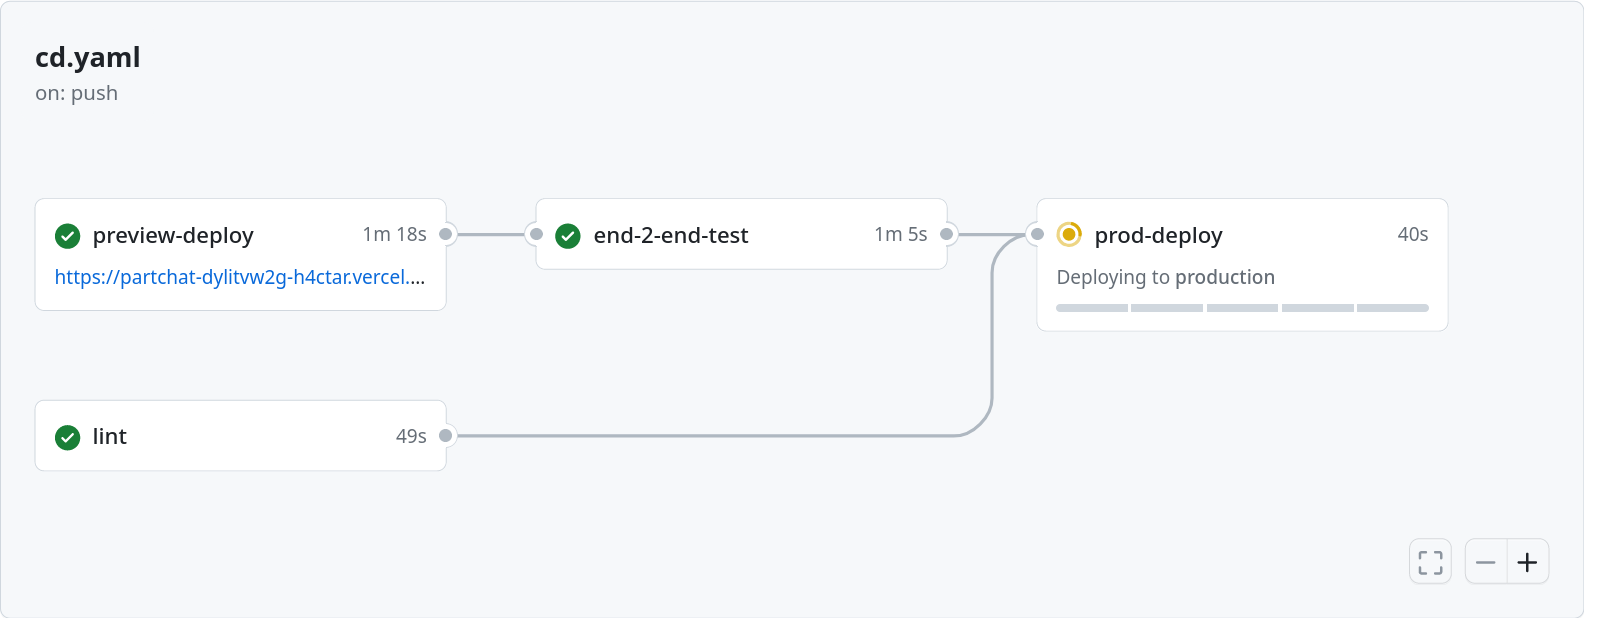
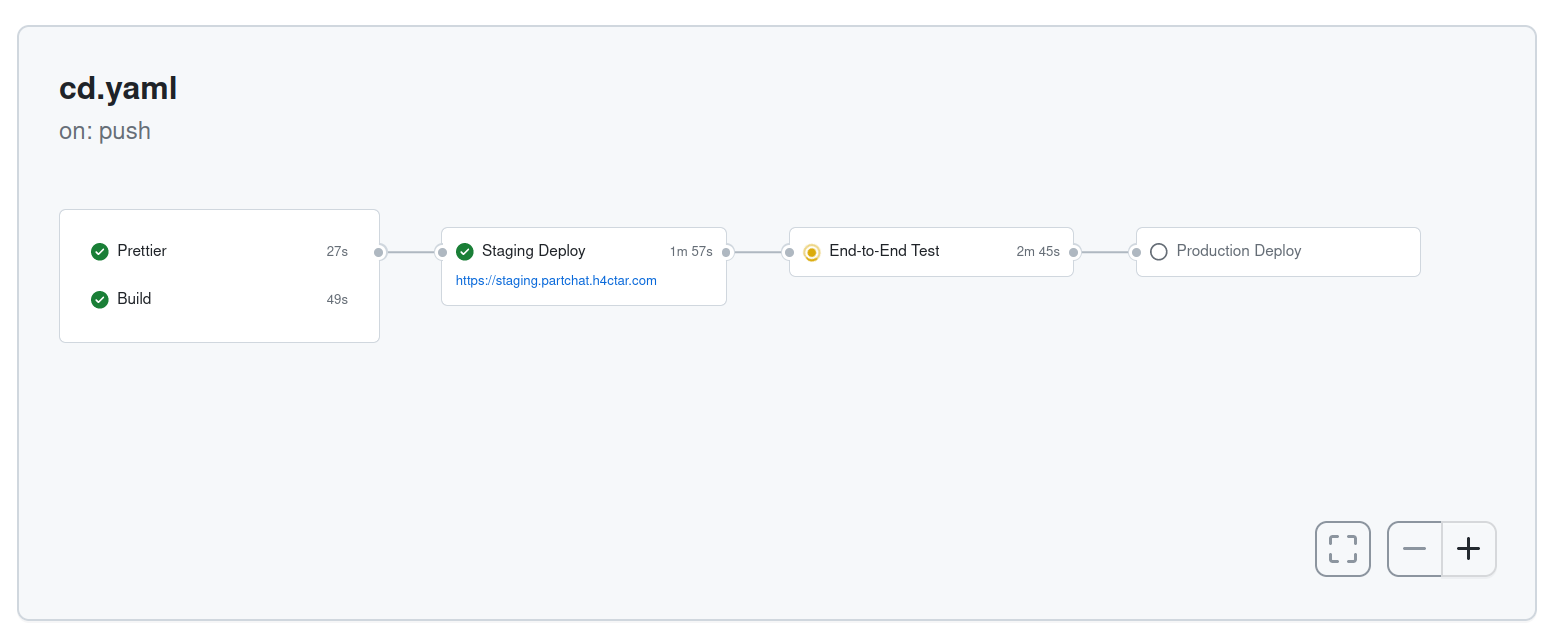
update readme

diff --git a/README.md b/README.md
@@ -5,12 +5,10 @@
 ## Pipelines
 
 There is one continuous deployment GitHub workflow.
-It runs on all pushes to the main branch, deploys to a preview environment where it runs the end-2-end tests and if they pass it deploys to prod.
+It runs on all pushes, deploys to a staging environment where it runs the end-2-end tests and if they pass it deploys to prod (only if main branch).
 
 The setup-node action is used to cache node dependencies.
 A cache is also created for the playwright binaries; it uses the playwright version in the key to ensure it is updated when the playwright version changes.
-
-The deployment URL is stored in the `url` output of the `preview-deploy` job and retrieved in the `end-2-end-test` job.
 
 ![Continuous Deploy Workflow](docs/continuous-deploy-workflow.png)
 
@@ -20,11 +18,9 @@ End-2-end tests use Playwright and should test all nominal flows.
 
 ## Database
 
-The data is persisted in a PlanetScale SQL database using the Prisma ORM.
+The data is persisted in a SQLite database using the Prisma ORM.
 
 ![Entity Relationship Diagram](docs/prisma-erd.svg)
-
-There are two branches of the database, one for production and one for preview.
 
 ## REST Resources
 
@@ -36,10 +32,6 @@ The REST API has these resources:
 -   Part
 -   Comment
 
-## API Deployment
-
-## API Cache Control
-
 ## Authentication/Authorisation
 
 ## Responsive Layouts
@@ -48,20 +40,24 @@ The REST API has these resources:
 
 ## Dev Environment
 
-1. Install Vercel CLI globally
+1. Install dependencies:
 
     ```
-    yarn global add vercel@latest
+    npm install
     ```
 
-2. Pull Vercel environment
+2. Run the backend:
+
+    ```
+    cd backend
+    npm run dbpush
+    npm run dbseed
+    npm run dev
+    ```
+
+3. Run the frontend:
 
     ```zsh
-    vercel pull
-    ```
-
-3. Run Vercel dev
-
-    ```zsh
-    vercel dev
+    cd frontend
+    npm run dev
     ```
